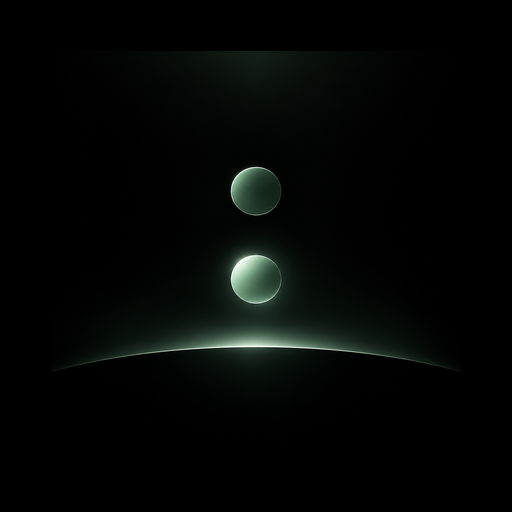
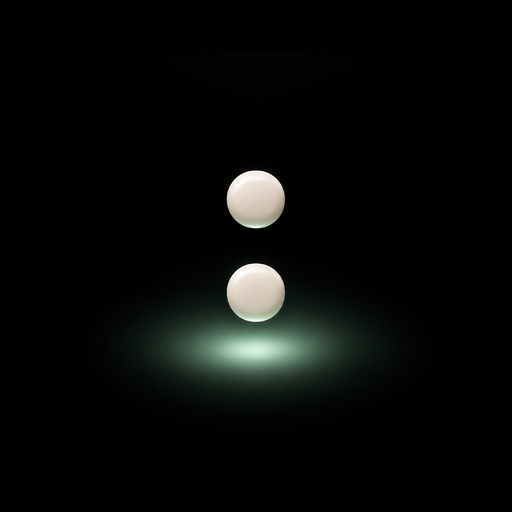
Add files via upload

Changed region(s): [[0.1562, 0.3125, 0.8438, 0.7812], [0.4688, 0.0938, 0.5312, 0.125]]

diff --git a/index.html b/index.html
@@ -169,16 +169,11 @@ html.light .toast{background:rgba(255,255,255,.9);color:#2a261f;box-shadow:0 12p
 <body>
 <div class="splash" id="splash">
   <div class="stage">
-    <svg viewBox="0 0 390 300" preserveAspectRatio="none"><defs>
-      <radialGradient id="spg" cx="195" cy="235" r="210" gradientUnits="userSpaceOnUse" gradientTransform="translate(0 235) scale(1 .55) translate(0 -235)"><stop offset="0" stop-color="#b8e0c8" stop-opacity=".45"/><stop offset=".4" stop-color="#7fb7a0" stop-opacity=".14"/><stop offset="1" stop-color="#7fb7a0" stop-opacity="0"/></radialGradient>
-      <linearGradient id="spl" x1="-10" x2="400" gradientUnits="userSpaceOnUse"><stop offset="0" stop-color="#9fd6c0" stop-opacity="0"/><stop offset=".2" stop-color="#8fc9b4" stop-opacity=".45"/><stop offset=".5" stop-color="#f2f7ee"/><stop offset=".8" stop-color="#8fc9b4" stop-opacity=".45"/><stop offset="1" stop-color="#9fd6c0" stop-opacity="0"/></linearGradient>
-      <filter id="spb" x="-10%" y="-100%" width="120%" height="300%"><feGaussianBlur stdDeviation="5"/></filter>
-      <clipPath id="spu"><path d="M-10 268 Q195 170 400 268 L400 0 L-10 0Z"/></clipPath></defs>
-      <rect class="glw" width="390" height="300" fill="url(#spg)" clip-path="url(#spu)"/>
-      <path class="hl" pathLength="100" d="M-10 268 Q195 170 400 268" fill="none" stroke="url(#spl)" stroke-width="6" filter="url(#spb)"/>
-      <path class="hl" pathLength="100" d="M-10 268 Q195 170 400 268" fill="none" stroke="url(#spl)" stroke-width="1.6"/>
+    <svg viewBox="0 0 390 300" preserveAspectRatio="xMidYMid meet"><defs>
+      <radialGradient id="spg" cx="195" cy="186" r="110" gradientUnits="userSpaceOnUse" gradientTransform="translate(0 186) scale(1 .3) translate(0 -186)"><stop offset="0" stop-color="#cfeedd" stop-opacity=".75"/><stop offset=".45" stop-color="#7fb596" stop-opacity=".25"/><stop offset="1" stop-color="#2f5a40" stop-opacity="0"/></radialGradient></defs>
+      <rect class="glw" width="390" height="300" fill="url(#spg)"/>
     </svg>
-    <svg class="rr" viewBox="216 138 80 208"><defs><linearGradient id="dm" x1="1" y1="0" x2="0" y2="1"><stop offset="0" stop-color="#a8c6af"/><stop offset=".45" stop-color="#77997f"/><stop offset="1" stop-color="#4c6a55"/></linearGradient><radialGradient id="dl" cx="42%" cy="36%" r="70%"><stop offset="0" stop-color="#f4fcf6"/><stop offset=".45" stop-color="#bfe4cd"/><stop offset="1" stop-color="#7fb596"/></radialGradient><filter id="dg" x="-300%" y="-300%" width="700%" height="700%"><feGaussianBlur stdDeviation="14"/></filter></defs><circle cx="256" cy="178" r="32" fill="url(#dm)"/><circle cx="256" cy="306" r="42" fill="#9fd6b4" opacity=".45" filter="url(#dg)"/><circle cx="256" cy="306" r="32" fill="url(#dl)"/></svg>
+    <svg class="rr" viewBox="216 138 80 208"><defs><radialGradient id="dv" cx="40%" cy="32%" r="75%"><stop offset="0" stop-color="#fffefb"/><stop offset=".55" stop-color="#efe9df"/><stop offset="1" stop-color="#cfc7ba"/></radialGradient></defs><circle cx="256" cy="178" r="32" fill="url(#dv)"/><circle cx="256" cy="306" r="32" fill="url(#dv)"/></svg>
   </div>
   <div class="nm">Ratio <i>by Konta &amp; Cie</i></div><div class="hr"></div><div class="est">EST. 2026</div>
   <div class="ver">v 1.0</div>

diff --git a/sw.js b/sw.js
@@ -1,5 +1,5 @@
 // Ratio by Konta & Cie: офлайн-режим. Приложение берем из сети, если она ответила за 1,5 с, иначе из кэша.
-const C = 'ratio-v8';
+const C = 'ratio-v9';
 const CORE = ['./', './index.html', './manifest.webmanifest', './icon-192.png', './apple-touch-icon.png'];
 self.addEventListener('install', e => { e.waitUntil(caches.open(C).then(c => c.addAll(CORE)).then(() => self.skipWaiting())); });
 self.addEventListener('activate', e => { e.waitUntil(caches.keys().then(ks => Promise.all(ks.filter(k => k !== C).map(k => caches.delete(k)))).then(() => self.clients.claim())); });
